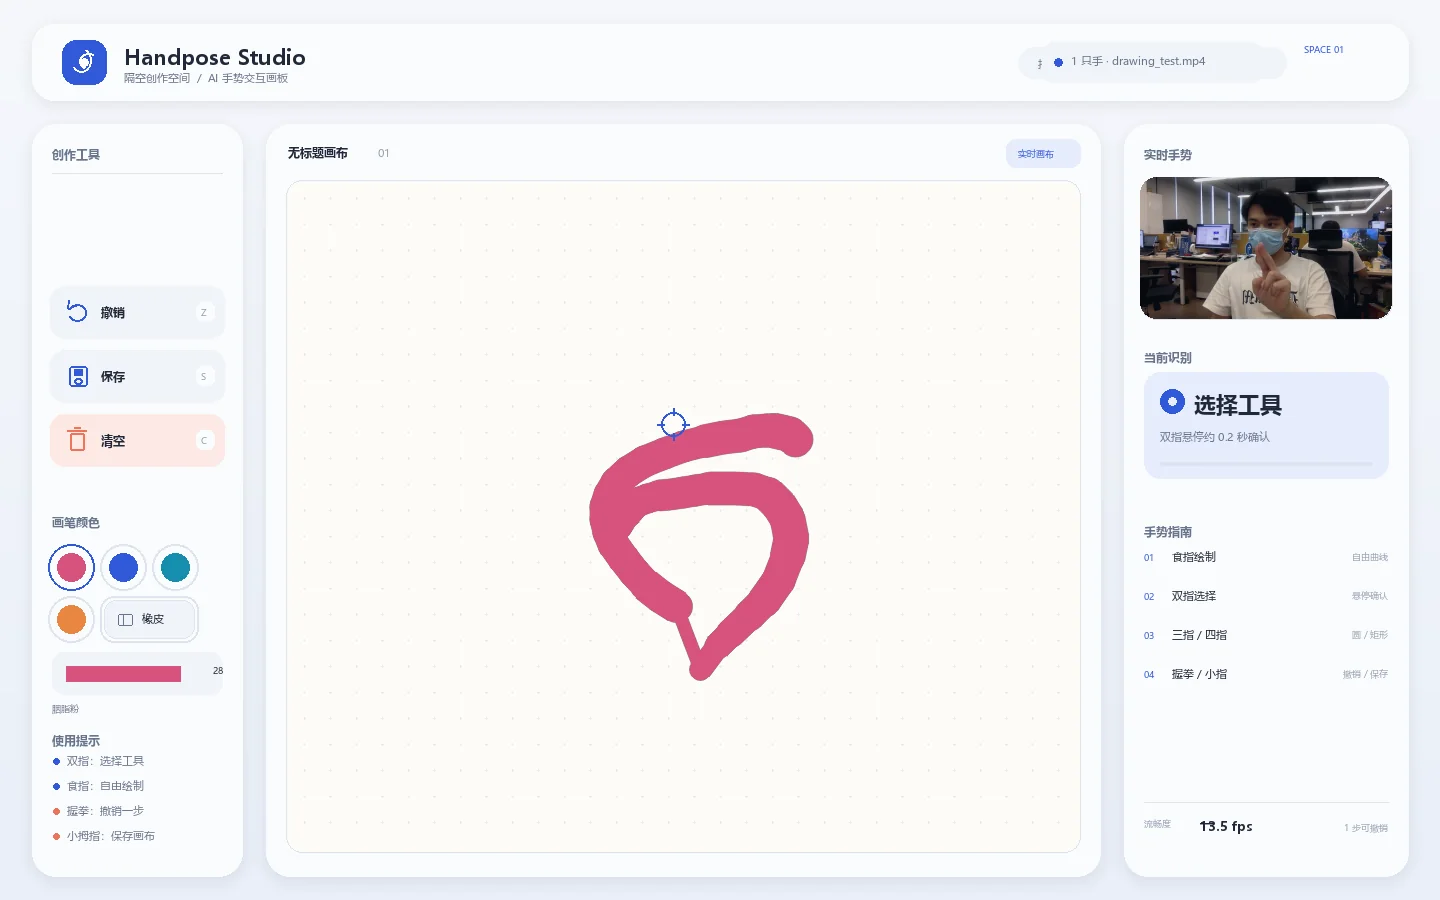
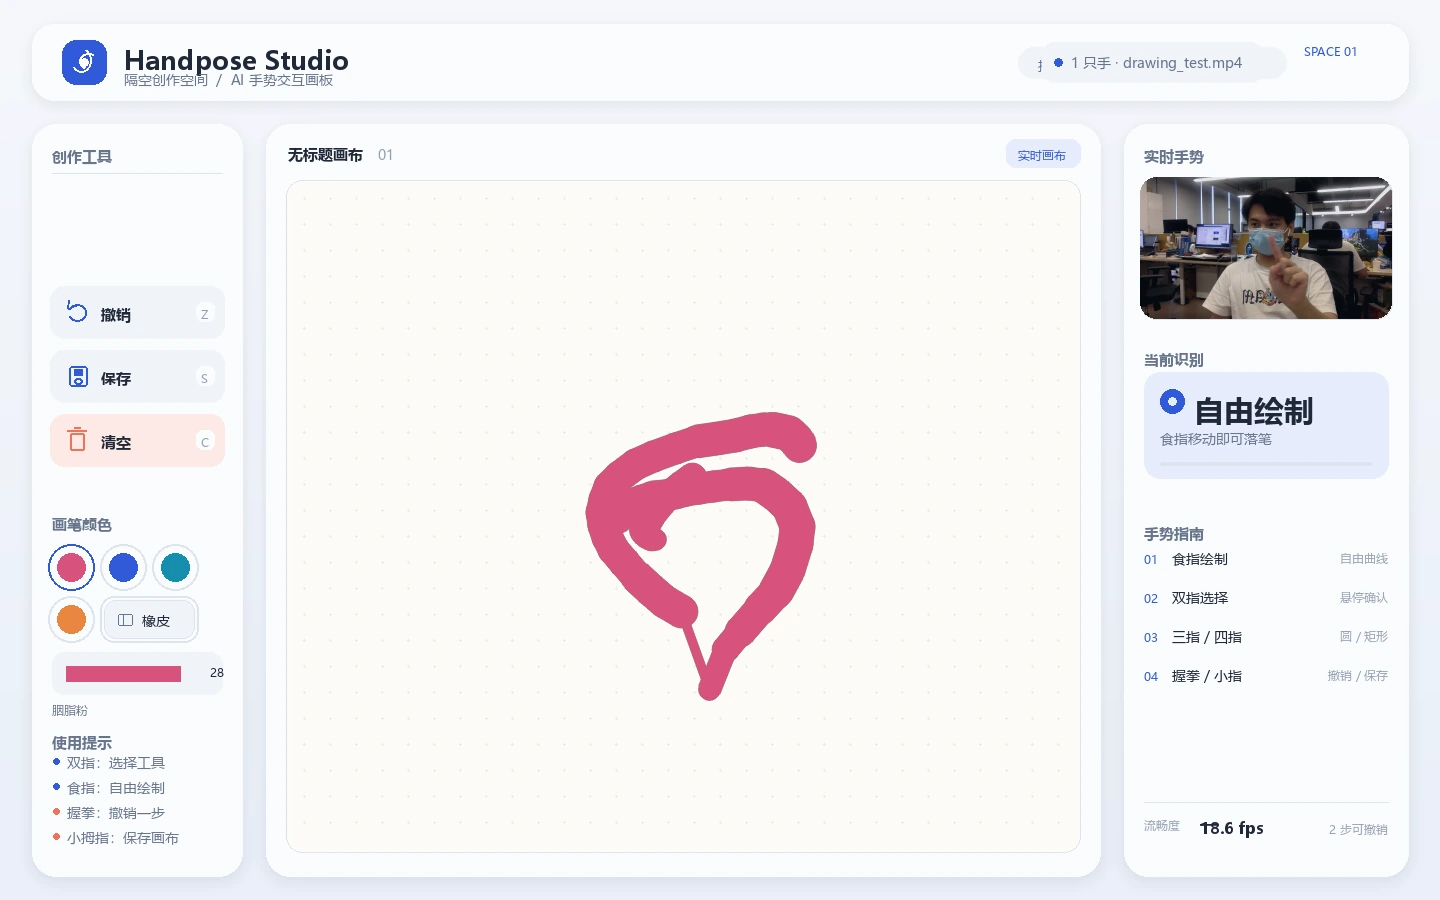
优化影像双片布局并更新手势画板

diff --git a/index.html b/index.html
@@ -46,35 +46,67 @@
         </div>
       </div>
 
-      <figure class="film-hero" id="film">
-        <div class="film-stage">
-          <div class="film-topline" aria-hidden="true">
-            <span>AI 概念短片</span>
-            <span data-timecode>00:00 / 00:40</span>
+      <section class="film-duo" id="film" aria-label="AI 影像双片预览">
+        <figure class="film-card film-card-experiment" data-film-card>
+          <div class="film-stage" data-film-stage>
+            <div class="film-topline" aria-hidden="true">
+              <span>新片 · 家庭场景实验</span>
+              <span data-timecode data-duration="12">00:00 / 00:12</span>
+            </div>
+            <video
+              id="family-experiment"
+              controls
+              preload="none"
+              playsinline
+              poster="assets/film/family-experiment-poster.webp"
+              aria-label="家庭生活场景实验，12 秒 AIGC 影像"
+            >
+              <source src="assets/film/family-experiment.mp4" type="video/mp4">
+              <track kind="captions" src="assets/film/family-experiment.zh-CN.vtt" srclang="zh" label="中文">
+              当前浏览器不支持视频播放，可下载
+              <a href="assets/film/family-experiment.mp4">家庭场景实验文件</a>。
+            </video>
+            <button class="film-play" type="button" data-play-film aria-label="播放家庭生活场景实验">
+              <span class="play-icon" aria-hidden="true"></span>
+              <span>播放新片</span>
+            </button>
           </div>
-          <video
-            id="portfolio-film"
-            controls
-            preload="none"
-            playsinline
-            poster="assets/film/film-poster.jpg"
-            aria-label="《这次只投一家》AI 概念短片"
-          >
-            <source src="assets/film/portfolio-film.mp4" type="video/mp4">
-            <track kind="captions" src="assets/film/portfolio-film.zh-CN.vtt" srclang="zh" label="中文">
-            当前浏览器不支持视频播放，可下载
-            <a href="assets/film/portfolio-film.mp4">作品片文件</a>。
-          </video>
-          <button class="film-play" type="button" data-play-film aria-label="播放《这次只投一家》">
-            <span class="play-icon" aria-hidden="true"></span>
-            <span>播放作品片</span>
-          </button>
-        </div>
-        <figcaption class="film-caption">
-          <span class="film-title">《这次只投一家》</span>
-          <span>40 秒 / 8 段镜头 / AIGC 概念片</span>
-        </figcaption>
-      </figure>
+          <figcaption class="film-caption">
+            <span class="film-title">家庭生活场景实验</span>
+            <span>12.2 秒 / 3072×1728 / MiniMax H3 / 原生音频</span>
+          </figcaption>
+        </figure>
+
+        <figure class="film-card" data-film-card>
+          <div class="film-stage" data-film-stage>
+            <div class="film-topline" aria-hidden="true">
+              <span>AI 概念短片</span>
+              <span data-timecode data-duration="40">00:00 / 00:40</span>
+            </div>
+            <video
+              id="portfolio-film"
+              controls
+              preload="none"
+              playsinline
+              poster="assets/film/film-poster.jpg"
+              aria-label="《这次只投一家》AI 概念短片"
+            >
+              <source src="assets/film/portfolio-film.mp4" type="video/mp4">
+              <track kind="captions" src="assets/film/portfolio-film.zh-CN.vtt" srclang="zh" label="中文">
+              当前浏览器不支持视频播放，可下载
+              <a href="assets/film/portfolio-film.mp4">作品片文件</a>。
+            </video>
+            <button class="film-play" type="button" data-play-film aria-label="播放《这次只投一家》">
+              <span class="play-icon" aria-hidden="true"></span>
+              <span>播放作品片</span>
+            </button>
+          </div>
+          <figcaption class="film-caption">
+            <span class="film-title">《这次只投一家》</span>
+            <span>40 秒 / 8 段镜头 / AIGC 概念片</span>
+          </figcaption>
+        </figure>
+      </section>
     </section>
 
     <section class="statement reveal" aria-label="工作理念">
@@ -115,35 +147,6 @@
           <figure class="still still-c">
             <img src="assets/film/still-s08.webp" alt="男生在电脑前准备发送项目链接" width="1600" height="900" decoding="async" fetchpriority="low">
             <figcaption>只投一次认真准备的递送</figcaption>
-          </figure>
-        </div>
-        <div class="motion-feature">
-          <div class="motion-feature-copy">
-            <p class="project-kicker">最新影像实验</p>
-            <h4>家庭生活场景实验</h4>
-            <p>一段 12 秒的旧式家庭室内场景。人物、空间、动作与同步音频在一次生成流程中完成，重点验证人物站位、长镜头稳定性和环境氛围。</p>
-            <ul class="experiment-tags">
-              <li>MiniMax H3 + ComfyUI</li>
-              <li>3072×1728 生成源片</li>
-              <li>48fps / 12.2 秒</li>
-              <li>原生音频</li>
-            </ul>
-          </div>
-          <figure class="motion-player">
-            <video
-              id="family-experiment"
-              controls
-              preload="none"
-              playsinline
-              poster="assets/film/family-experiment-poster.webp"
-              aria-label="家庭生活场景实验，12 秒 AIGC 影像"
-            >
-              <source src="assets/film/family-experiment.mp4" type="video/mp4">
-              <track kind="captions" src="assets/film/family-experiment.zh-CN.vtt" srclang="zh" label="中文">
-              当前浏览器不支持视频播放，可下载
-              <a href="assets/film/family-experiment.mp4">家庭场景实验文件</a>。
-            </video>
-            <figcaption>最新实验：更完整的空间层次与人物细节</figcaption>
           </figure>
         </div>
       </article>
@@ -187,13 +190,13 @@
           <p class="project-kicker">计算机视觉 / 创作工具</p>
           <h3>隔空手势画图</h3>
           <p class="project-lead">把摄像头里的手部动作变成画笔，在不接触键鼠的情况下完成选色、绘画、擦除与撤销。</p>
-          <p>在 MediaPipe Hands 输出的 21 个手部关键点基础上重做浅色创作工作台，加入笔触级撤销、独立绘图层、双手分工与 One Euro 平滑。OpenCV 负责最新帧读取、工具栏命中、局部画布合成和实时反馈。</p>
+          <p>在 MediaPipe Hands 输出的 21 个手部关键点基础上重做浅色创作工作台，加入笔触级撤销、独立绘图层、双手分工与 One Euro 平滑。OpenCV 负责最新帧读取、工具栏命中、局部画布合成和实时反馈。本轮还加入 Windows 原生 DPI 显示适配和两帧手势确认，减轻界面缩放模糊与起笔延迟。</p>
           <dl class="metric-row">
             <div><dt>21 个</dt><dd>手部关键点</dd></div>
-            <div><dt>30 项</dt><dd>自动化测试</dd></div>
+            <div><dt>38 项</dt><dd>自动化测试</dd></div>
             <div><dt>6 类</dt><dd>固定手势指令</dd></div>
           </dl>
-          <p class="boundary-note">当前使用固定阈值判断手指状态，没有训练新的手势分类模型；桌面流程已用 120 帧真实视频验证，效果与帧率仍会受光照、遮挡、摄像头角度和整机负载影响。</p>
+          <p class="boundary-note">当前使用固定阈值判断手指状态，没有训练新的手势分类模型；桌面流程已用真实演示视频验证，效果与帧率仍会受光照、遮挡、摄像头角度和整机负载影响。</p>
           <div class="pipeline">
             <span>MediaPipe Hands</span>
             <span>One Euro 平滑</span>

diff --git a/styles.css b/styles.css
@@ -271,9 +271,20 @@ main {
   background: rgba(241, 234, 220, 0.07);
 }
 
-.film-hero {
-  position: relative;
+.film-duo {
+  display: grid;
+  grid-template-columns: repeat(2, minmax(0, 1fr));
+  gap: clamp(14px, 2vw, 28px);
   margin: clamp(46px, 7vw, 92px) 0 0;
+}
+
+.film-card {
+  min-width: 0;
+  margin: 0;
+}
+
+.film-card-experiment .film-topline span:first-child {
+  color: var(--copper);
 }
 
 .film-stage {
@@ -322,8 +333,8 @@ main {
   top: 50%;
   left: 50%;
   display: grid;
-  width: 112px;
-  height: 112px;
+  width: clamp(88px, 8vw, 104px);
+  height: clamp(88px, 8vw, 104px);
   place-items: center;
   padding: 14px;
   border: 1px solid rgba(255, 255, 255, 0.5);
@@ -362,12 +373,17 @@ main {
 }
 
 .film-caption {
-  display: flex;
-  justify-content: space-between;
+  display: grid;
+  grid-template-columns: minmax(0, 1fr) auto;
+  align-items: start;
   gap: 24px;
   padding-top: 14px;
   color: var(--muted);
   font-size: 12px;
+}
+
+.film-caption > span:last-child {
+  text-align: right;
 }
 
 .film-title {
@@ -543,69 +559,6 @@ main {
   color: rgba(255, 255, 255, 0.8);
   font-size: 11px;
   text-shadow: 0 1px 8px #000;
-}
-
-.motion-feature {
-  display: grid;
-  grid-template-columns: minmax(260px, 0.68fr) minmax(0, 1.32fr);
-  grid-column: 1 / -1;
-  gap: clamp(28px, 5vw, 72px);
-  align-items: center;
-  margin-top: clamp(32px, 5vw, 68px);
-  padding-top: clamp(32px, 5vw, 56px);
-  border-top: 1px solid var(--line);
-}
-
-.motion-feature-copy h4 {
-  max-width: 28rem;
-  margin: 0 0 18px;
-  font-family: var(--font-display);
-  font-size: clamp(30px, 3.3vw, 48px);
-  font-weight: 500;
-  line-height: 1.2;
-}
-
-.motion-feature-copy > p:not(.project-kicker) {
-  margin: 0;
-  color: var(--muted);
-}
-
-.experiment-tags {
-  display: flex;
-  flex-wrap: wrap;
-  gap: 8px;
-  margin: 26px 0 0;
-  padding: 0;
-  list-style: none;
-}
-
-.experiment-tags li {
-  padding: 7px 10px;
-  border: 1px solid var(--line);
-  color: #b9c9d0;
-  font-size: 11px;
-}
-
-.motion-player {
-  position: relative;
-  margin: 0;
-  overflow: hidden;
-  border: 1px solid var(--line-strong);
-  background: #05090c;
-  box-shadow: 0 28px 70px rgba(0, 0, 0, 0.3);
-}
-
-.motion-player video {
-  width: 100%;
-  aspect-ratio: 16 / 9;
-  background: #05090c;
-  object-fit: cover;
-}
-
-.motion-player figcaption {
-  padding: 12px 16px 14px;
-  color: var(--muted);
-  font-size: 11px;
 }
 
 .project-rag {
@@ -983,12 +936,12 @@ main {
     max-width: 42rem;
   }
 
-  .film-contact-sheet {
-    min-height: 460px;
+  .film-duo {
+    grid-template-columns: 1fr;
   }
 
-  .motion-feature {
-    grid-template-columns: 1fr;
+  .film-contact-sheet {
+    min-height: 460px;
   }
 
   .project-zhigan {
@@ -1036,10 +989,6 @@ main {
     line-height: 1.18;
   }
 
-  .film-hero {
-    margin-top: 48px;
-  }
-
   .film-topline {
     padding: 12px 14px;
     font-size: 9px;
@@ -1053,7 +1002,12 @@ main {
 
   .film-caption {
     display: grid;
+    grid-template-columns: 1fr;
     gap: 4px;
+  }
+
+  .film-caption > span:last-child {
+    text-align: left;
   }
 
   .statement {

diff --git a/site.js b/site.js
@@ -1,10 +1,6 @@
 document.documentElement.classList.add('js');
 
 const header = document.querySelector('[data-header]');
-const film = document.querySelector('#portfolio-film');
-const filmStage = film?.closest('.film-stage');
-const playButton = document.querySelector('[data-play-film]');
-const timecode = document.querySelector('[data-timecode]');
 
 const setHeaderState = () => {
   header?.classList.toggle('is-scrolled', window.scrollY > 24);
@@ -13,12 +9,33 @@ const setHeaderState = () => {
 setHeaderState();
 window.addEventListener('scroll', setHeaderState, { passive: true });
 
-if (film && filmStage && playButton) {
-  const showPlayButton = () => filmStage.classList.remove('is-playing');
-  const hidePlayButton = () => filmStage.classList.add('is-playing');
+const filmControllers = [...document.querySelectorAll('[data-film-card]')]
+  .map((card) => ({
+    card,
+    film: card.querySelector('video'),
+    stage: card.querySelector('[data-film-stage]'),
+    playButton: card.querySelector('[data-play-film]'),
+    timecode: card.querySelector('[data-timecode]'),
+  }))
+  .filter(({ film, stage, playButton }) => film && stage && playButton);
+
+filmControllers.forEach(({ film, stage, playButton, timecode }) => {
+  const showPlayButton = () => stage.classList.remove('is-playing');
+  const hidePlayButton = () => stage.classList.add('is-playing');
+  const duration = Number(timecode?.dataset.duration) || 0;
+
+  const writeTimecode = () => {
+    if (!timecode) return;
+    const current = Math.min(film.currentTime || 0, duration);
+    const seconds = String(Math.floor(current)).padStart(2, '0');
+    timecode.textContent = `00:${seconds} / 00:${String(duration).padStart(2, '0')}`;
+  };
 
   playButton.addEventListener('click', () => {
     hidePlayButton();
+    filmControllers.forEach((controller) => {
+      if (controller.film !== film) controller.film.pause();
+    });
     film.play().catch(() => {
       showPlayButton();
       film.controls = true;
@@ -29,14 +46,8 @@ if (film && filmStage && playButton) {
   film.addEventListener('pause', showPlayButton);
   film.addEventListener('ended', showPlayButton);
 
-  if (timecode) {
-    film.addEventListener('timeupdate', () => {
-      const current = Math.min(film.currentTime || 0, 40);
-      const seconds = String(Math.floor(current)).padStart(2, '0');
-      timecode.textContent = `00:${seconds} / 00:40`;
-    });
-  }
-}
+  film.addEventListener('timeupdate', writeTimecode);
+});
 
 const revealItems = [...document.querySelectorAll('.reveal')];
 const reduceMotion = window.matchMedia('(prefers-reduced-motion: reduce)').matches;
